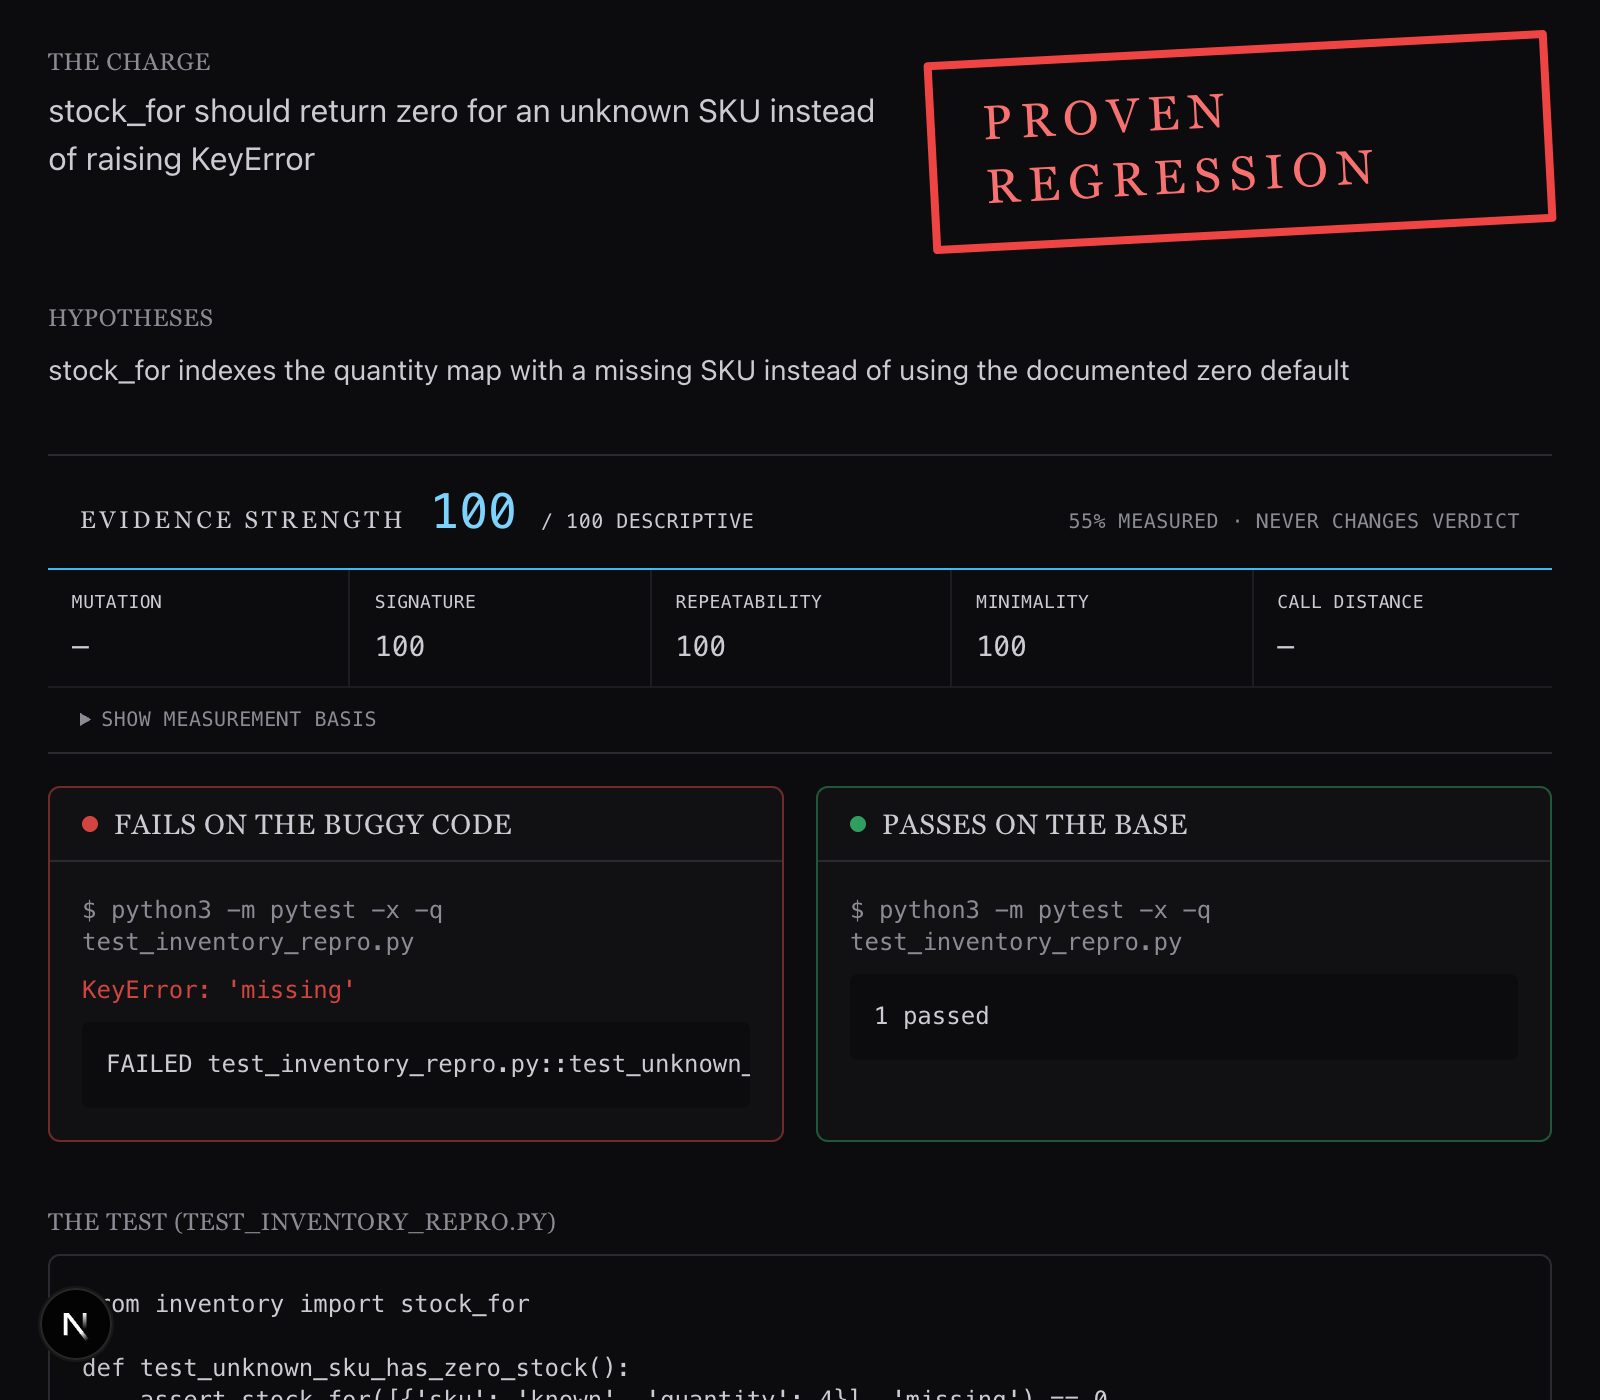
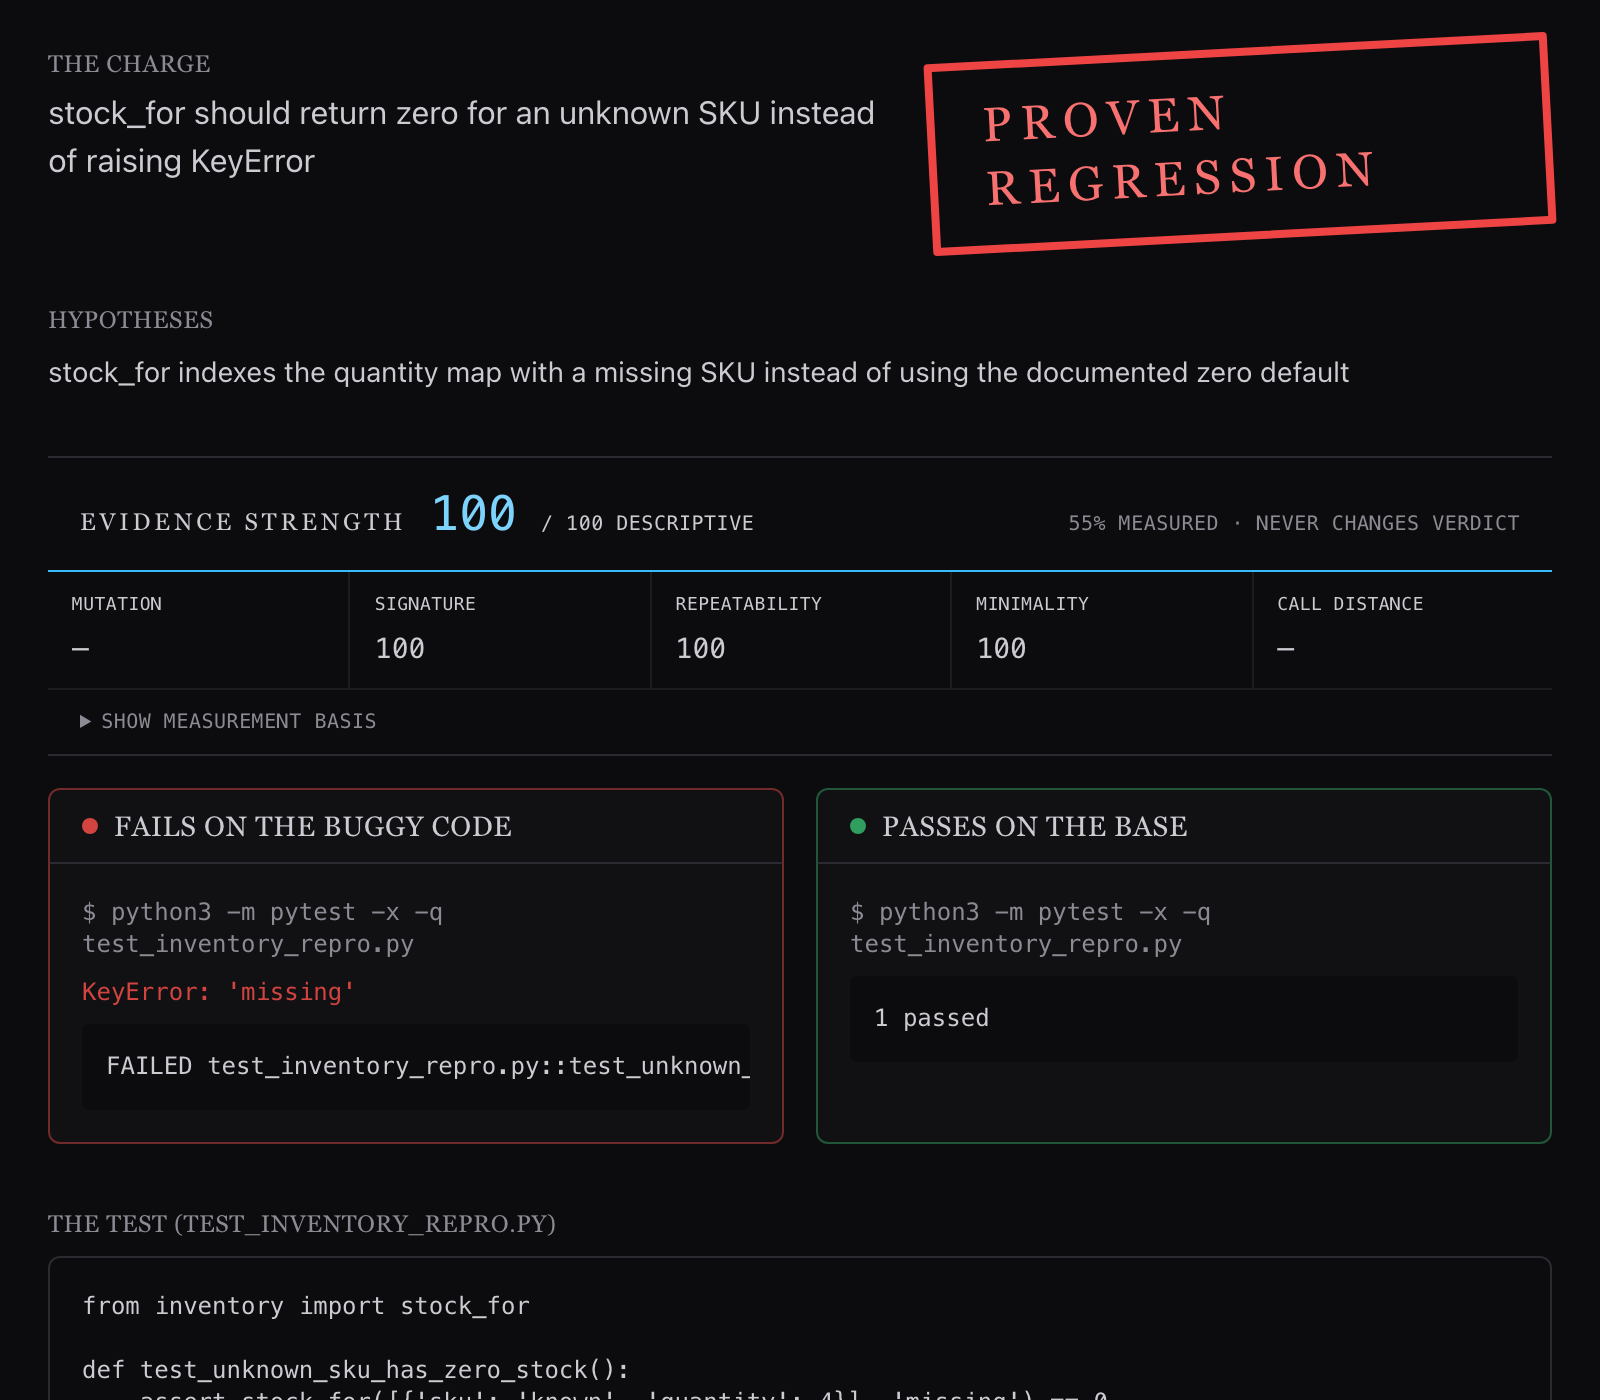
Clean up documentation media
Remove the orphaned hero GIF and recapture the case-file still from the production Next.js build so development chrome does not appear in the published image.

diff --git a/docs/MEDIA_PROVENANCE.md b/docs/MEDIA_PROVENANCE.md
@@ -121,16 +121,18 @@ that a retry is conditional: the provider declined refinement, so no retry occur
 ## Finished web case file
 
 - **Asset:** `assets/web-case-file.png`
-- **Format and size:** PNG, 1600 × 1400, 2×, RGB, 172,274 bytes
[1 lines of base64/hex data omitted]
-- **Produced by:** current Next.js UI in system Chrome through Playwright
-- **Input:** the UI's **Replay proof** action at `http://127.0.0.1:3000/`, which streams
+- **Format and size:** PNG, 1600 × 1400, 2×, RGB, 174,347 bytes
[1 lines of base64/hex data omitted]
+- **Produced by:** current Next.js production build in headless system Chrome
+- **Input:** the UI's **Replay proof** action at `http://127.0.0.1:3100/`, which streams
   the checked-in `fixtures/cases/inventory_proven.json` sealed Case
 - **Outcome:** completed case file with a `PROVEN REGRESSION` stamp, fail/pass comparison,
   generated test, and evidence-strength summary
 
 This still is deliberately a sealed replay, not a frame extracted from the live provider
-video. It shows the finished artifact clearly without implying fresh execution.
+video. It shows the finished artifact clearly without implying fresh execution. The page
+was served with `npm run start -- --hostname 127.0.0.1 --port 3100` from a successful
+production build; the temporary API token and browser address bar were outside the frame.
 
 ## EEF tamper refusal
 

diff --git a/docs/overview.md b/docs/overview.md
@@ -92,9 +92,9 @@ splice, reordered frame, narration, or audio track. See the [capture record](./M
 ![Completed Exhibit A case-file screen from the sealed proven Case replay, showing a proven-regression stamp, hypothesis, evidence-strength summary, and side-by-side failing and passing logs.](./assets/web-case-file.png)
 
 The still is a separate real run of the UI's **Replay proof** action at
-`http://127.0.0.1:3000/`, using the checked-in `inventory_proven.json` sealed Case. It is a
-no-execution replay for inspecting the finished case-file layout, not a frame from the live
-investigation above.
+`http://127.0.0.1:3100/` from a production build, using the checked-in
+`inventory_proven.json` sealed Case. It is a no-execution replay for inspecting the
+finished case-file layout, not a frame from the live investigation above.
 
 ## What it proves, and what it does not
 
